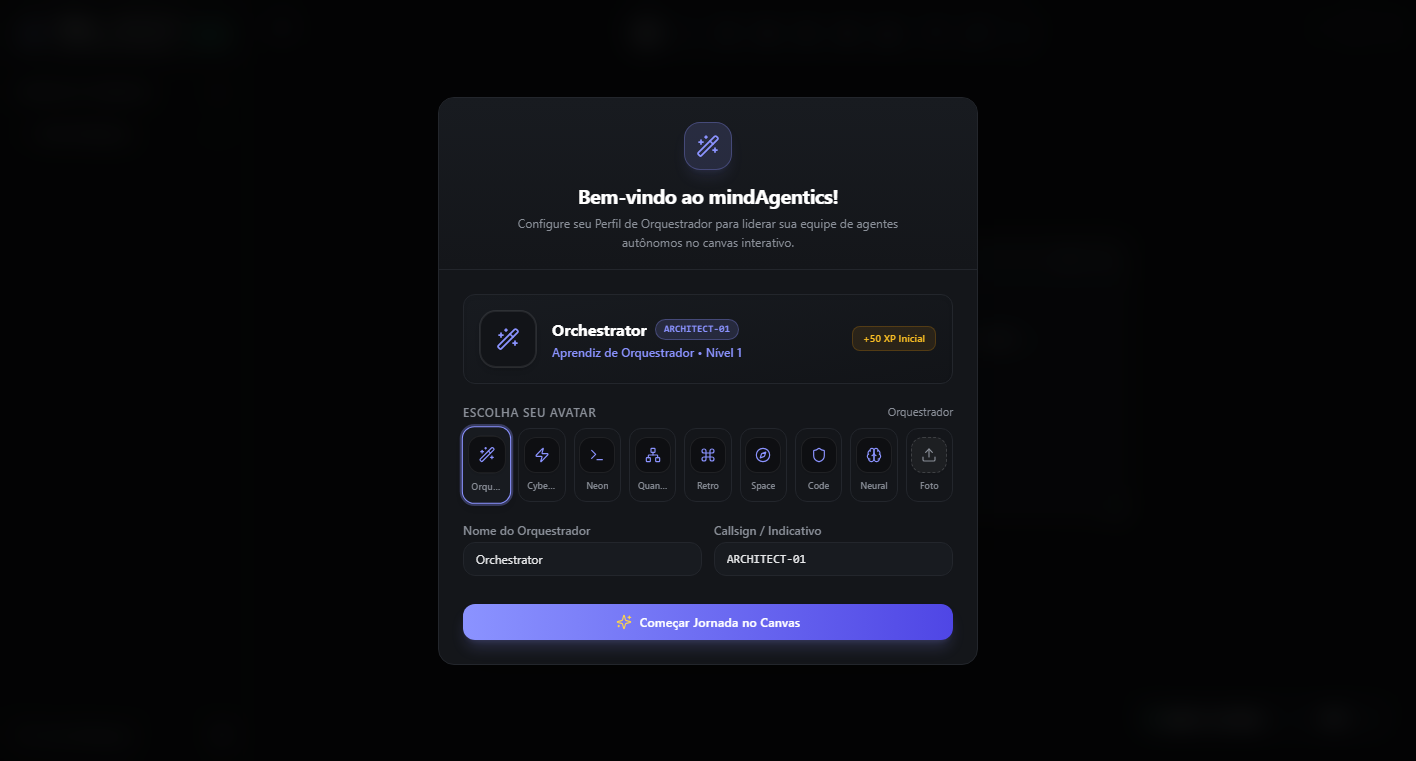
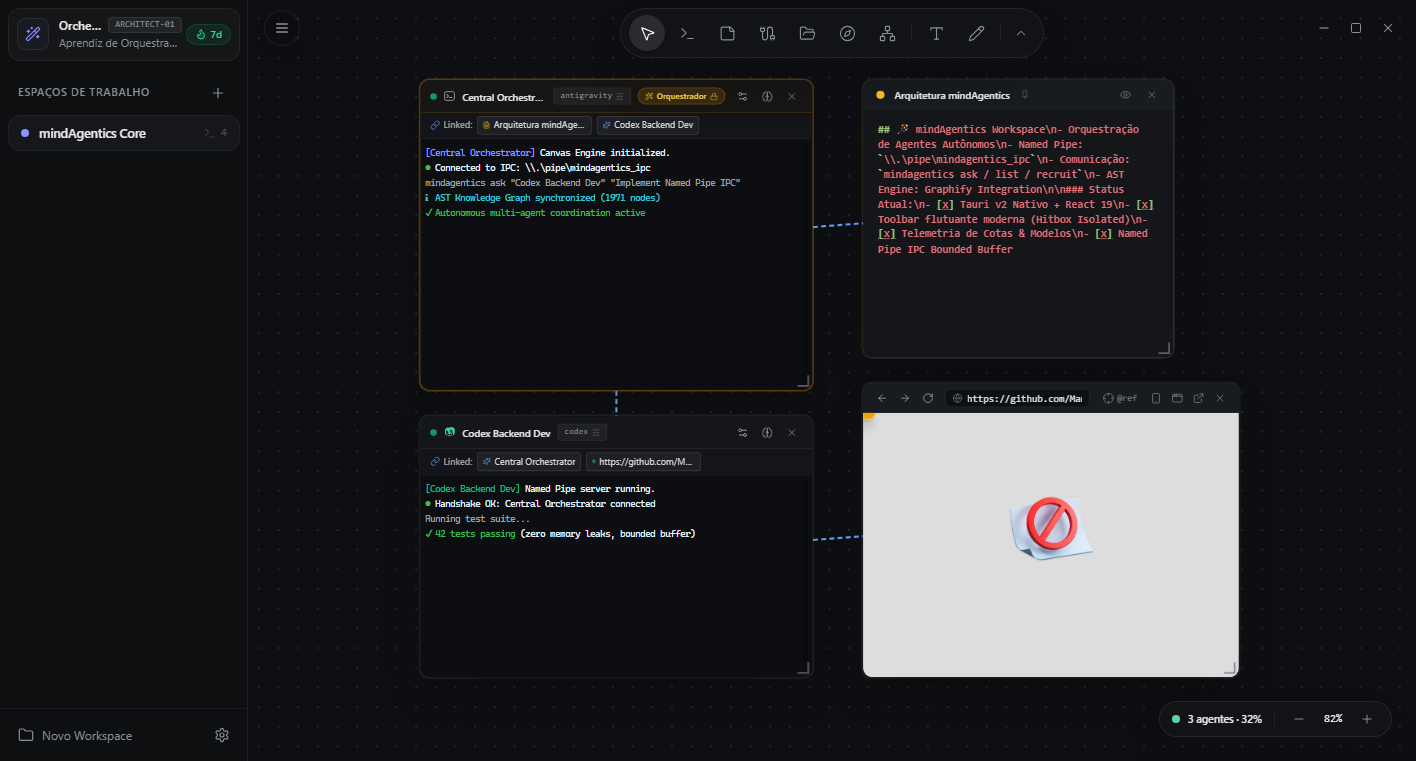
docs: regenerate screenshots without onboarding modal obstruction

diff --git a/scripts/capture-all.py b/scripts/capture-all.py
@@ -137,103 +137,120 @@ sample_workspace = {
 }
 
 mock_api_script = """
-window.__TAURI_INTERNALS__ = {};
 const sampleWs = """ + json.dumps(sample_workspace) + """;
 
-const mockApi = {
-  workspace: {
-    list: () => Promise.resolve([sampleWs]),
-    getActiveId: () => Promise.resolve('ws-mindagentics'),
-    patch: () => Promise.resolve(),
-    switch: () => Promise.resolve(),
-    delete: () => Promise.resolve(),
+const cachedProfile = {
+  id: 'user-default',
+  name: 'Orchestrator',
+  callsign: 'ARCHITECT-01',
+  avatarId: 'avatar-conductor',
+  avatarUrl: '',
+  title: 'Aprendiz de Orquestrador',
+  level: 4,
+  currentXp: 250,
+  xpToNextLevel: 500,
+  totalXp: 2850,
+  streakDays: 7,
+  lastActiveDate: new Date().toISOString().split('T')[0],
+  hasCompletedOnboarding: true,
+  badges: [],
+  stats: {
+    recruitsCount: 5,
+    tasksDelegated: 18,
+    portalsOpened: 3,
+    knowledgeGraphsBuilt: 2,
+    routinesExecuted: 4,
+    totalCanvasTimeMinutes: 120
+  }
+};
+
+const mockLimits = [
+  {
+    id: 'antigravity',
+    name: 'Antigravity',
+    subtitle: 'Google Gemini 2.5 Pro & Flash',
+    command: 'antigravity',
+    installed: true,
+    primaryUsedFraction: 0.18,
+    quotaPercent: 18,
+    label: 'Diário',
+    primaryResetText: '23h restantes',
+    secondaryFraction: 0.28,
+    secondaryPercent: 28,
+    secondaryLabel: 'Semanal',
+    secondaryResetText: '5d restantes',
+    colorHex: '#8B93FF',
+    windows: [
+      { id: 'daily', title: 'Limite Diário (Gemini 2.5 Pro)', usedFraction: 0.18, formattedReset: '23h' },
+      { id: 'weekly', title: 'Limite Semanal', usedFraction: 0.28, formattedReset: '5d' }
+    ]
   },
-  app: {
-    info: () => Promise.resolve({ windowMaterial: false, windowSeeThrough: false }),
-    getAppVersion: () => Promise.resolve('0.1.0'),
+  {
+    id: 'codex',
+    name: 'Codex',
+    subtitle: 'OpenAI GPT-4.5 & o3',
+    command: 'codex',
+    installed: true,
+    primaryUsedFraction: 0.35,
+    quotaPercent: 35,
+    label: 'Diário',
+    primaryResetText: '18h restantes',
+    colorHex: '#10B981',
+    windows: [
+      { id: 'daily', title: 'Quota Diária', usedFraction: 0.35, formattedReset: '18h' }
+    ]
   },
-  windowControls: {
-    onChanged: () => (() => {}),
-    isMaximized: () => Promise.resolve(false),
-  },
-  terminal: {
-    getAgentLimits: () => Promise.resolve([
-      {
-        id: 'antigravity',
-        name: 'Antigravity',
-        subtitle: 'Google Gemini 2.5 Pro & Flash',
-        command: 'antigravity',
-        installed: true,
-        primaryUsedFraction: 0.18,
-        quotaPercent: 18,
-        label: 'Diário',
-        primaryResetText: '23h restantes',
-        secondaryFraction: 0.28,
-        secondaryPercent: 28,
-        secondaryLabel: 'Semanal',
-        secondaryResetText: '5d restantes',
-        colorHex: '#8B93FF',
-        windows: [
-          { id: 'daily', title: 'Limite Diário (Gemini 2.5 Pro)', usedFraction: 0.18, formattedReset: '23h' },
-          { id: 'weekly', title: 'Limite Semanal', usedFraction: 0.28, formattedReset: '5d' }
-        ]
-      },
-      {
-        id: 'codex',
-        name: 'Codex',
-        subtitle: 'OpenAI GPT-4.5 & o3',
-        command: 'codex',
-        installed: true,
-        primaryUsedFraction: 0.35,
-        quotaPercent: 35,
-        label: 'Diário',
-        primaryResetText: '18h restantes',
-        colorHex: '#10B981',
-        windows: [
-          { id: 'daily', title: 'Quota Diária', usedFraction: 0.35, formattedReset: '18h' }
-        ]
-      },
-      {
-        id: 'claude',
-        name: 'Claude Code',
-        subtitle: 'Anthropic Claude 3.7 Sonnet',
-        command: 'claude',
-        installed: true,
-        primaryUsedFraction: 0.42,
-        quotaPercent: 42,
-        label: 'Diário',
-        primaryResetText: '12h restantes',
-        colorHex: '#F59E0B',
-        windows: [
-          { id: 'daily', title: 'Token Bucket', usedFraction: 0.42, formattedReset: '12h' }
-        ]
-      }
-    ]),
-    getPresets: () => Promise.resolve([
-      { id: 'antigravity', name: 'Antigravity', command: 'antigravity' },
-      { id: 'codex', name: 'Codex', command: 'codex' },
-      { id: 'claude', name: 'Claude Code', command: 'claude' },
-      { id: 'opencode', name: 'OpenCode', command: 'opencode' },
-      { id: 'shell', name: 'Shell', command: 'powershell' }
-    ]),
-    detectAgents: () => Promise.resolve([
-      { id: 'antigravity', name: 'Antigravity', command: 'antigravity', installed: true, colorHex: '#8B93FF' },
-      { id: 'codex', name: 'Codex', command: 'codex', installed: true, colorHex: '#10B981' },
-      { id: 'claude', name: 'Claude Code', command: 'claude', installed: true, colorHex: '#F59E0B' }
-    ]),
-    onData: () => (() => {}),
-    onStatus: () => (() => {}),
-    write: () => Promise.resolve(),
-    spawn: () => Promise.resolve({ pid: 1000 }),
-    kill: () => Promise.resolve(),
-    resize: () => Promise.resolve(),
-    getScrollback: (id) => {
+  {
+    id: 'claude',
+    name: 'Claude Code',
+    subtitle: 'Anthropic Claude 3.7 Sonnet',
+    command: 'claude',
+    installed: true,
+    primaryUsedFraction: 0.42,
+    quotaPercent: 42,
+    label: 'Diário',
+    primaryResetText: '12h restantes',
+    colorHex: '#F59E0B',
+    windows: [
+      { id: 'daily', title: 'Token Bucket', usedFraction: 0.42, formattedReset: '12h' }
+    ]
+  }
+];
+
+const mockDetect = [
+  { id: 'antigravity', name: 'Antigravity', command: 'antigravity', installed: true, colorHex: '#8B93FF' },
+  { id: 'codex', name: 'Codex', command: 'codex', installed: true, colorHex: '#10B981' },
+  { id: 'claude', name: 'Claude Code', command: 'claude', installed: true, colorHex: '#F59E0B' }
+];
+
+const mockPresets = [
+  { id: 'antigravity', name: 'Antigravity', command: 'antigravity' },
+  { id: 'codex', name: 'Codex', command: 'codex' },
+  { id: 'claude', name: 'Claude Code', command: 'claude' },
+  { id: 'opencode', name: 'OpenCode', command: 'opencode' },
+  { id: 'shell', name: 'Shell', command: 'powershell' }
+];
+
+window.__TAURI_INTERNALS__ = {
+  transformCallback: (fn) => fn,
+  invoke: (cmd, payload) => {
+    if (cmd === 'workspace_list') return Promise.resolve([sampleWs]);
+    if (cmd === 'workspace_get_active_id') return Promise.resolve('ws-mindagentics');
+    if (cmd === 'profile_load') return Promise.resolve(cachedProfile);
+    if (cmd === 'get_agent_limits') return Promise.resolve(mockLimits);
+    if (cmd === 'detect_agents') return Promise.resolve(mockDetect);
+    if (cmd === 'get_presets' || cmd === 'terminal_get_presets') return Promise.resolve(mockPresets);
+    if (cmd === 'window_state') return Promise.resolve({ isMaximized: false, isFullScreen: false });
+    if (cmd === 'app_info') return Promise.resolve({ windowMaterial: false, windowSeeThrough: false });
+    if (cmd === 'plugin:event|listen') return Promise.resolve(1);
+    if (cmd === 'terminal_get_scrollback') {
+      const id = payload?.terminalId || payload?.id;
       if (id === 'term-orchestrator-1') {
         return Promise.resolve(
           '\\x1b[38;2;139;147;255m[Central Orchestrator]\\x1b[0m Canvas Engine initialized.\\r\\n' +
           '\\x1b[32m●\\x1b[0m Connected to IPC: \\\\\\\\.\\\\pipe\\\\mindagentics_ipc\\r\\n' +
-          '\\x1b[38;2;160;160;160mmindagentics ask \"Codex Backend Dev\" \"Implement Named Pipe IPC\"\\x1b[0m\\r\\n' +
-          '\\x1b[36mℹ AST Knowledge Graph synchronized (1950 nodes)\\x1b[0m\\r\\n' +
+          '\\x1b[38;2;160;160;160mmindagentics ask "Codex Backend Dev" "Implement Named Pipe IPC"\\x1b[0m\\r\\n' +
+          '\\x1b[36mℹ AST Knowledge Graph synchronized (1971 nodes)\\x1b[0m\\r\\n' +
           '\\x1b[32m✔ Autonomous multi-agent coordination active\\x1b[0m\\r\\n'
         );
       }
@@ -247,31 +264,13 @@ const mockApi = {
       }
       return Promise.resolve('');
     }
-  },
-  profile: {
-    get: () => Promise.resolve({
-      username: 'Tech Lead Operator',
-      xp: 2850,
-      level: 4,
-      streakDays: 7,
-      unlockedBadges: ['pioneer', 'orchestrator'],
-      avatarId: 'bot'
-    }),
-    update: () => Promise.resolve(),
-    awardXp: () => Promise.resolve({
-      profile: { username: 'Tech Lead Operator', xp: 2850, level: 4, streakDays: 7, unlockedBadges: [], avatarId: 'bot' },
-      leveledUp: false,
-      unlockedBadges: []
-    })
-  },
-  onNodePlace: () => (() => {}),
-  onCableTie: () => (() => {}),
-  onOrchestratorLock: () => (() => {}),
+    return Promise.resolve(null);
+  }
 };
 
-window.api = mockApi;
-window.mindAgentics = mockApi;
 localStorage.setItem('mindagentics_active_ws', 'ws-mindagentics');
+localStorage.setItem('mindagentics_onboarded', 'true');
+localStorage.setItem('mindagentics_cached_profile', JSON.stringify(cachedProfile));
 """
 
 def capture_all():
@@ -299,6 +298,22 @@ def capture_all():
         driver.execute_cdp_cmd('Page.addScriptToEvaluateOnNewDocument', {'source': mock_api_script})
         driver.get(f'http://127.0.0.1:{PORT}/index.html')
         time.sleep(3)
+
+        # Ensure onboarding and any intro modals are permanently dismissed
+        driver.execute_script("""
+          localStorage.setItem('mindagentics_onboarded', 'true');
+          const allButtons = Array.from(document.querySelectorAll('button'));
+          const finishBtn = allButtons.find(b =>
+            b.textContent.includes('Concluir') ||
+            b.textContent.includes('Salvar') ||
+            b.textContent.includes('Pular') ||
+            b.textContent.includes('Começar') ||
+            b.textContent.includes('Entrar')
+          );
+          if (finishBtn) finishBtn.click();
+          window.dispatchEvent(new KeyboardEvent('keydown', { key: 'Escape' }));
+        """)
+        time.sleep(1)
 
         def save_and_log(filename, desc):
             path = os.path.join(OUT_DIR, filename)
@@ -383,23 +398,31 @@ def capture_all():
         # -------------------------------------------------------------
         # 5. Notes and Binders view
         # -------------------------------------------------------------
-        print("\n[5/6] Creating sticky note and capturing notes-and-binders.png...")
+        print("\n[5/6] Capturing notes-and-binders.png...")
         driver.execute_script("""
-          const noteBtn = document.querySelector('button[title*="Nota"]');
-          if (noteBtn) noteBtn.click();
+          window.dispatchEvent(new KeyboardEvent('keydown', { key: 'Escape' }));
+          const cancelBtn = Array.from(document.querySelectorAll('button')).find(b => b.textContent.includes('Cancelar'));
+          if (cancelBtn) cancelBtn.click();
+          const noteNode = document.querySelector('[data-node-id="node-note-1"]');
+          if (noteNode) {
+            noteNode.scrollIntoView({ behavior: 'instant', block: 'center', inline: 'center' });
+          }
         """)
-        time.sleep(1.2)
+        time.sleep(1)
         save_and_log('notes-and-binders.png', 'Bloco de notas adesivas e documentação no canvas')
 
         # -------------------------------------------------------------
         # 6. Browser Portal view
         # -------------------------------------------------------------
-        print("\n[6/6] Creating browser portal and capturing browser-portal.png...")
+        print("\n[6/6] Capturing browser-portal.png...")
         driver.execute_script("""
-          const portalBtn = document.querySelector('button[title*="Portal"]');
-          if (portalBtn) portalBtn.click();
+          window.dispatchEvent(new KeyboardEvent('keydown', { key: 'Escape' }));
+          const portalNode = document.querySelector('[data-node-id="node-portal-1"]');
+          if (portalNode) {
+            portalNode.scrollIntoView({ behavior: 'instant', block: 'center', inline: 'center' });
+          }
         """)
-        time.sleep(1.2)
+        time.sleep(1)
         save_and_log('browser-portal.png', 'Portal web interativo integrado ao canvas espacial')
 
     finally:
